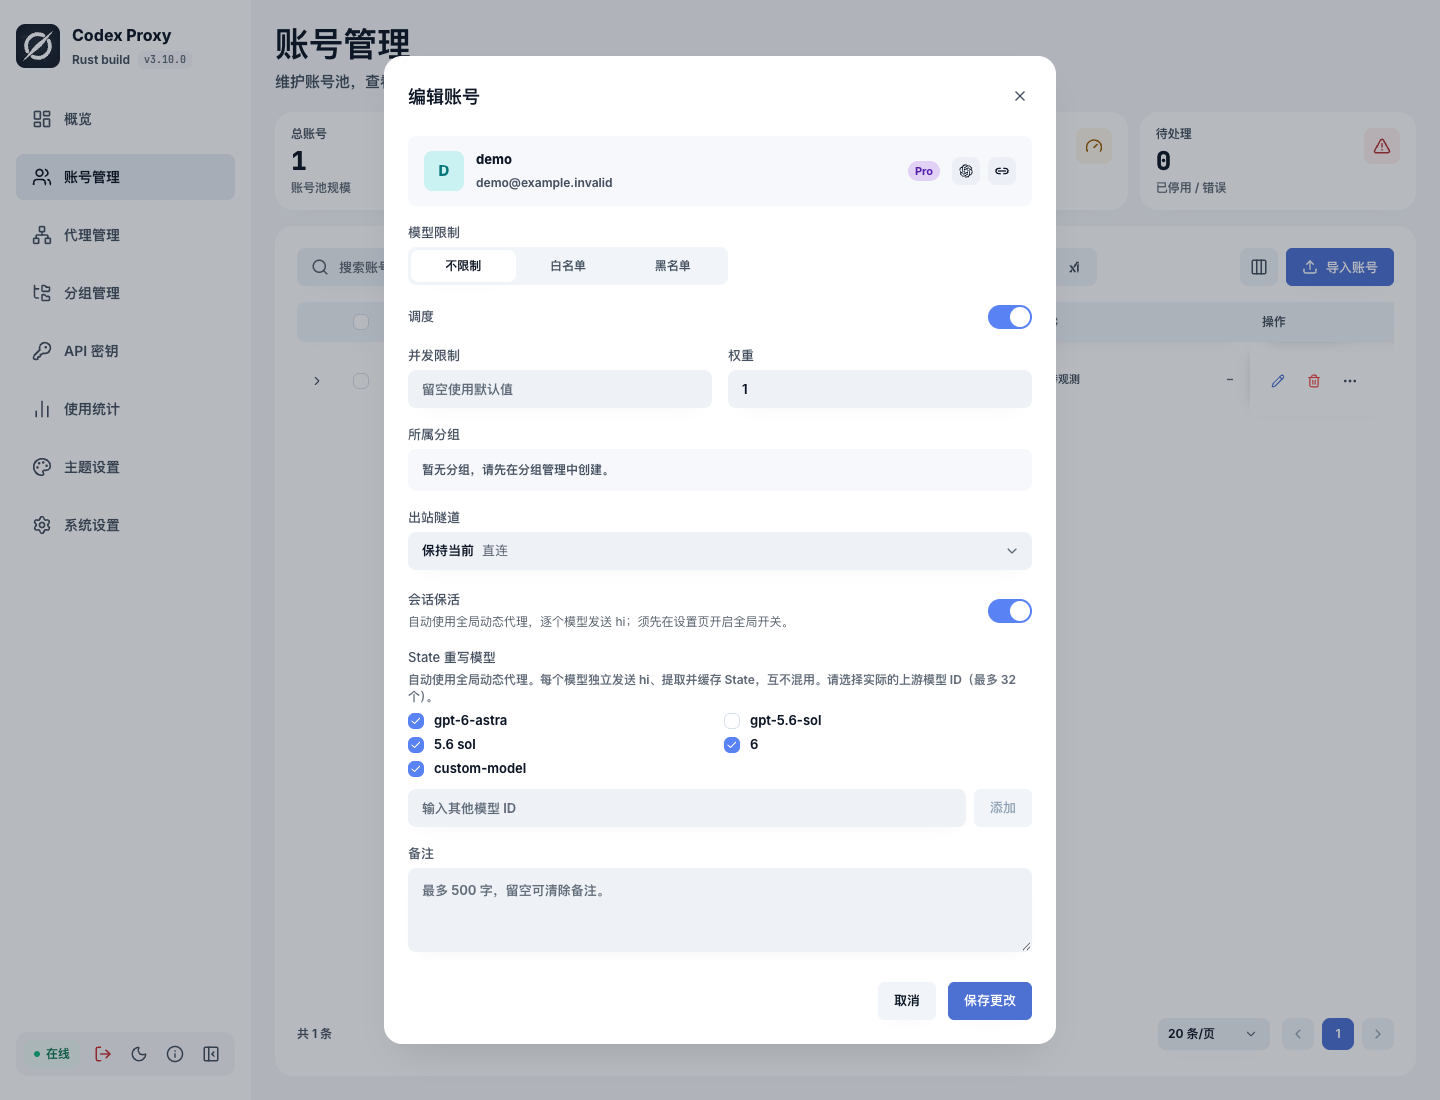
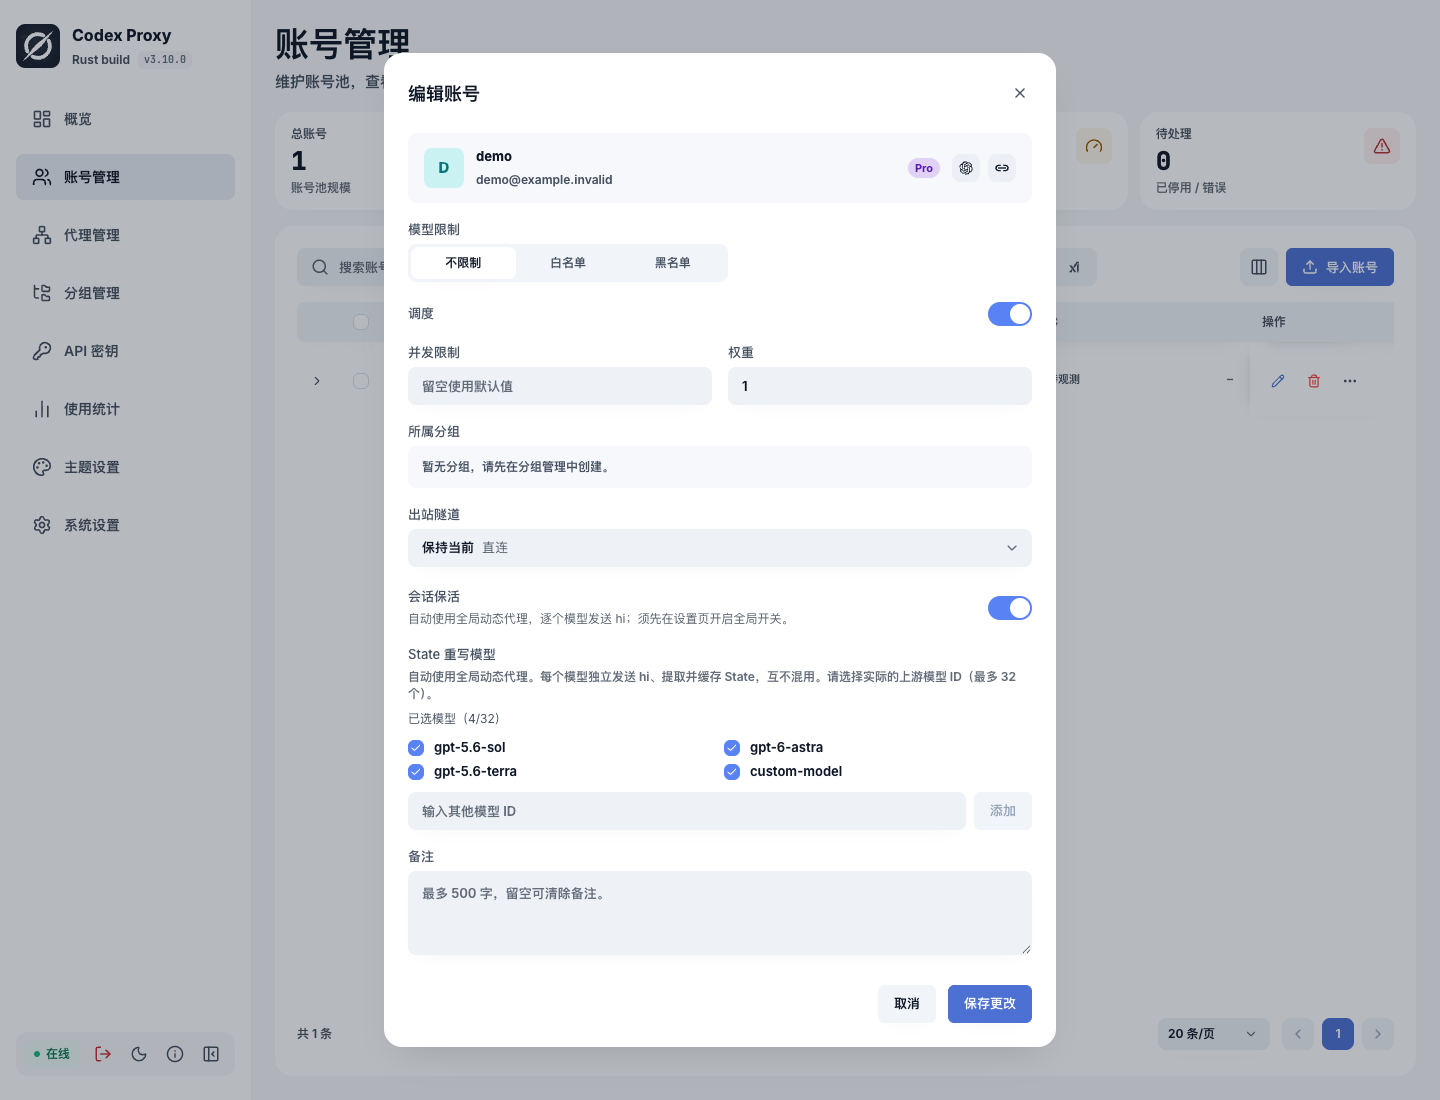
fix: correct state rewrite model IDs and filter selected models

diff --git a/frontend/src/views/accounts/components/AccountSessionModelsField.vue b/frontend/src/views/accounts/components/AccountSessionModelsField.vue
@@ -15,11 +15,11 @@ const catalog = ref<string[]>([])
 const manual = ref('')
 const inputError = ref('')
 const request = useRequestState()
-const models = computed(() => [...new Set([...catalog.value, ...selected.value])])
+const availableModels = computed(() => [...new Set(catalog.value)].filter(model => !selected.value.includes(model)))
 function select(id: string, checked: boolean) {
   if (props.disabled)
     return
-  if (checked && selected.value.length >= 32) {
+  if (checked && !selected.value.includes(id) && selected.value.length >= 32) {
     inputError.value = '最多选择 32 个重写模型'
     return
   }
@@ -60,8 +60,19 @@ watch(() => props.accountId, () => {
   <BaseFormItem label="State 重写模型" description="自动使用全局动态代理。每个模型独立发送 hi、提取并缓存 State，互不混用。请选择实际的上游模型 ID（最多 32 个）。">
     <div class="grid gap-3">
       <BaseScrollbar max-height="12rem">
-        <div class="grid grid-cols-2 gap-2" role="group" aria-label="选择重写模型">
-          <BaseCheckbox v-for="model in models" :key="model" :label="model" :title="model" show-label :model-value="selected.includes(model)" :disabled="disabled" @update:model-value="select(model, $event)" />
+        <div class="grid gap-3">
+          <p class="m-0 text-cp-sm text-cp-text-secondary">
+            已选模型（{{ selected.length }}/32）
+          </p>
+          <div class="grid grid-cols-2 gap-2" role="group" aria-label="已选重写模型">
+            <BaseCheckbox v-for="model in selected" :key="model" :label="model" :title="model" show-label :model-value="true" :disabled="disabled" @update:model-value="select(model, $event)" />
+          </div>
+          <p v-if="availableModels.length" class="m-0 text-cp-sm text-cp-text-secondary">
+            可添加模型
+          </p>
+          <div v-if="availableModels.length" class="grid grid-cols-2 gap-2" role="group" aria-label="可添加重写模型">
+            <BaseCheckbox v-for="model in availableModels" :key="model" :label="model" :title="model" show-label :model-value="false" :disabled="disabled" @update:model-value="select(model, $event)" />
+          </div>
         </div>
       </BaseScrollbar>
       <div class="flex gap-2">

diff --git a/frontend/src/views/accounts/composables/useAccountEditor.ts b/frontend/src/views/accounts/composables/useAccountEditor.ts
@@ -72,7 +72,7 @@ export function useAccountEditor(options: {
     proxyId.value = ''
     schedulingEnabled.value = account.enabled
     enableSessionKeepalive.value = account.enableSessionKeepalive
-    sessionKeepaliveModels.value = [...(account.sessionKeepaliveModels ?? ['5.6 sol', '6'])]
+    sessionKeepaliveModels.value = [...(account.sessionKeepaliveModels ?? ['gpt-5.6-sol', 'gpt-6-astra'])]
     concurrencyLimit.value = concurrencyLimitInput(account.concurrencyLimit)
     weight.value = String(account.weight)
     modelAccess.value = { ...account.modelAccess, models: [...account.modelAccess.models] }

diff --git a/backend/crates/providers/openai/tests/session_manager/manager.rs b/backend/crates/providers/openai/tests/session_manager/manager.rs
@@ -54,7 +54,7 @@ async fn disabled_accounts_other_models_and_missing_proxy_never_refresh_or_overr
         manager.refresh(&id).await.unwrap_err().kind(),
         ProviderAdminErrorKind::Invalid
     );
-    let mut req = request("6");
+    let mut req = request("gpt-6-astra");
     manager
         .rewrite(&store.account("acct_a").unwrap(), &mut req)
         .await;
@@ -66,7 +66,7 @@ async fn disabled_accounts_other_models_and_missing_proxy_never_refresh_or_overr
             .await
             .is_err()
     );
-    for model in ["gpt-6-astra", "6 ", "5.6 Sol"] {
+    for model in ["5.6 sol", "6", "gpt-6", "gpt-6-astra ", "GPT-5.6-sol"] {
         let mut req = request(model);
         manager
             .rewrite(&store.account("acct_b").unwrap(), &mut req)
@@ -86,19 +86,19 @@ async fn partial_failure_keeps_previous_state_without_extending_its_expiry() {
     let id = ProviderAccountId::new("acct_a").unwrap();
     manager.refresh(&id).await.unwrap();
     proxy.reset().await;
-    mock_model(&proxy, "acct_a", "5.6 sol", ResponseTemplate::new(500)).await;
-    mock_model(&proxy, "acct_a", "6", success("new-state")).await;
+    mock_model(&proxy, "acct_a", "gpt-5.6-sol", ResponseTemplate::new(500)).await;
+    mock_model(&proxy, "acct_a", "gpt-6-astra", success("new-state")).await;
     let result = manager.refresh(&id).await.unwrap();
     assert!(result.models[0].error.is_some());
     assert!(result.models[1].error.is_none());
-    let mut sol = request("5.6 sol");
+    let mut sol = request("gpt-5.6-sol");
     manager
         .rewrite(&store.account("acct_a").unwrap(), &mut sol)
         .await;
     assert_eq!(sol.turn_state.as_deref(), Some("old-state"));
     tokio::time::pause();
     tokio::time::advance(Duration::from_secs(3600)).await;
-    let mut expired = request("5.6 sol");
+    let mut expired = request("gpt-5.6-sol");
     manager
         .rewrite(&store.account("acct_a").unwrap(), &mut expired)
         .await;
@@ -138,7 +138,7 @@ async fn duplicate_refresh_is_rejected_and_invalidated_inflight_results_cannot_r
     manager.invalidate(&id).await;
     let result = pending.await.unwrap().unwrap();
     assert!(result.models.iter().all(|item| item.error.is_some()));
-    let mut req = request("6");
+    let mut req = request("gpt-6-astra");
     manager
         .rewrite(&store.account("acct_a").unwrap(), &mut req)
         .await;
@@ -152,7 +152,7 @@ async fn rate_limit_honors_retry_after_and_does_not_send_the_second_model() {
     mock_model(
         &proxy,
         "acct_a",
-        "5.6 sol",
+        "gpt-5.6-sol",
         ResponseTemplate::new(429).insert_header("retry-after", "60"),
     )
     .await;
@@ -168,11 +168,11 @@ async fn rate_limit_honors_retry_after_and_does_not_send_the_second_model() {
 async fn missing_state_or_failed_sse_completion_never_creates_cache_entries() {
     let proxy = MockServer::start().await;
     let (store, _, manager) = fixture(Some(&proxy.uri())).await;
-    mock_model(&proxy, "acct_a", "5.6 sol", ResponseTemplate::new(200)).await;
+    mock_model(&proxy, "acct_a", "gpt-5.6-sol", ResponseTemplate::new(200)).await;
     mock_model(
         &proxy,
         "acct_a",
-        "6",
+        "gpt-6-astra",
         ResponseTemplate::new(200)
             .insert_header("x-codex-turn-state", "unusable")
             .set_body_raw(
@@ -186,7 +186,7 @@ async fn missing_state_or_failed_sse_completion_never_creates_cache_entries() {
         .await
         .unwrap();
     assert!(result.models.iter().all(|model| model.error.is_some()));
-    let mut req = request("6");
+    let mut req = request("gpt-6-astra");
     manager
         .rewrite(&store.account("acct_a").unwrap(), &mut req)
         .await;
@@ -237,7 +237,7 @@ async fn rewritten_business_http_uses_original_proxy_and_never_oam_pool() {
     )
     .for_account(&account)
     .unwrap();
-    let mut req = request("6");
+    let mut req = request("gpt-6-astra");
     req.force_http_sse = true;
     manager.rewrite(&account, &mut req).await;
     let context = CodexRequestContext {
@@ -292,7 +292,7 @@ async fn credential_revision_change_prevents_reusing_previous_state() {
         current.access_token_expires_at(),
     )
     .with_session_keepalive(true)
-    .with_session_keepalive_models(vec!["5.6 sol".to_owned(), "6".to_owned()])
+    .with_session_keepalive_models(vec!["gpt-5.6-sol".to_owned(), "gpt-6-astra".to_owned()])
     .with_account_facts(
         true,
         current.credential_state(),
@@ -300,10 +300,10 @@ async fn credential_revision_change_prevents_reusing_previous_state() {
         None,
         None,
     );
-    let mut req = request("6");
+    let mut req = request("gpt-6-astra");
     manager.rewrite(&current, &mut req).await;
     assert_eq!(req.turn_state.as_deref(), Some("old-credential-state"));
-    let mut req = request("6");
+    let mut req = request("gpt-6-astra");
     manager.rewrite(&rotated, &mut req).await;
     assert_eq!(req.turn_state.as_deref(), Some("client-state"));
 }
@@ -367,7 +367,7 @@ async fn selected_models_are_exact_and_support_more_than_two() {
 async fn temporary_failure_retries_the_same_model_and_caches_only_success() {
     let proxy = MockServer::start().await;
     let (store, _, manager) = fixture(Some(&proxy.uri())).await;
-    store.set_session_models("acct_a", vec!["6".to_owned()]);
+    store.set_session_models("acct_a", vec!["gpt-6-astra".to_owned()]);
     let attempts = Arc::new(AtomicUsize::new(0));
     let count = attempts.clone();
     Mock::given(method("POST"))
@@ -386,13 +386,13 @@ async fn temporary_failure_retries_the_same_model_and_caches_only_success() {
         .unwrap();
     assert!(result.models[0].error.is_none());
     assert_eq!(attempts.load(Ordering::SeqCst), 3);
-    let mut req = request("6");
+    let mut req = request("gpt-6-astra");
     manager
         .rewrite(&store.account("acct_a").unwrap(), &mut req)
         .await;
     assert_eq!(req.turn_state.as_deref(), Some("retried-state"));
     proxy.reset().await;
-    mock_model(&proxy, "acct_a", "6", ResponseTemplate::new(500)).await;
+    mock_model(&proxy, "acct_a", "gpt-6-astra", ResponseTemplate::new(500)).await;
     let result = manager
         .refresh(&ProviderAccountId::new("acct_a").unwrap())
         .await
@@ -405,7 +405,7 @@ async fn temporary_failure_retries_the_same_model_and_caches_only_success() {
             .contains("已尝试 3 次")
     );
     assert_eq!(proxy.received_requests().await.unwrap().len(), 3);
-    let mut req = request("6");
+    let mut req = request("gpt-6-astra");
     manager
         .rewrite(&store.account("acct_a").unwrap(), &mut req)
         .await;
@@ -416,7 +416,7 @@ async fn temporary_failure_retries_the_same_model_and_caches_only_success() {
 async fn short_retry_after_is_honored_before_retrying() {
     let proxy = MockServer::start().await;
     let (store, _, manager) = fixture(Some(&proxy.uri())).await;
-    store.set_session_models("acct_a", vec!["6".to_owned()]);
+    store.set_session_models("acct_a", vec!["gpt-6-astra".to_owned()]);
     let times = Arc::new(Mutex::new(Vec::new()));
     let captured = times.clone();
     Mock::given(method("POST"))

diff --git a/backend/crates/gateway-store/tests/postgres/provider_accounts/mod.rs b/backend/crates/gateway-store/tests/postgres/provider_accounts/mod.rs
@@ -3517,6 +3517,15 @@ async fn session_keepalive_defaults_off_and_survives_unrelated_account_updates()
             .unwrap()
             .enable_session_keepalive()
     );
+    assert_eq!(
+        repository
+            .get_account(&id)
+            .await
+            .unwrap()
+            .unwrap()
+            .session_keepalive_models(),
+        ["gpt-5.6-sol", "gpt-6-astra"]
+    );
     let store = admin_account_store(&database.pool);
     let context = MutationContext {
         actor: MutationActor::System,
@@ -3565,6 +3574,57 @@ async fn session_keepalive_defaults_off_and_survives_unrelated_account_updates()
             summary[0].session_keepalive_models,
             vec!["model-a", "model-b", "model-c"]
         );
+    }
+    database.close().await;
+}
+
+#[tokio::test]
+async fn session_model_migration_corrects_legacy_ids_without_losing_custom_models() {
+    let Some(database) = TestDatabase::create("session_model_ids").await else {
+        return;
+    };
+    let repository = PgProviderAccountRepository::new(database.pool.clone());
+    repository
+        .insert_provider_account(account("acct_legacy_models", "legacy models"))
+        .await
+        .unwrap();
+    repository
+        .insert_provider_account(account("acct_custom_models", "custom models"))
+        .await
+        .unwrap();
+    for (id, models) in [
+        (
+            "acct_legacy_models",
+            vec!["5.6 sol", "custom-model", "6", "gpt-6", "gpt-5.6-sol"],
+        ),
+        ("acct_custom_models", vec!["my-model", "another-model"]),
+    ] {
+        sqlx::query("update provider_accounts set session_keepalive_models = $2 where id = $1")
+            .bind(id)
+            .bind(models)
+            .execute(&database.pool)
+            .await
+            .unwrap();
+    }
+    sqlx::raw_sql(include_str!(
+        "../../../../../migrations/0018_session_rewrite_model_ids.sql"
+    ))
+    .execute(&database.pool)
+    .await
+    .unwrap();
+    for (id, expected) in [
+        (
+            "acct_legacy_models",
+            vec!["gpt-5.6-sol", "custom-model", "gpt-6-astra"],
+        ),
+        ("acct_custom_models", vec!["my-model", "another-model"]),
+    ] {
+        let account = repository
+            .get_account(&ProviderAccountId::new(id).unwrap())
+            .await
+            .unwrap()
+            .unwrap();
+        assert_eq!(account.session_keepalive_models(), expected);
     }
     database.close().await;
 }

diff --git a/backend/crates/providers/openai/tests/support.rs b/backend/crates/providers/openai/tests/support.rs
@@ -113,7 +113,10 @@ impl MemoryAccountStore {
             .account
             .clone()
             .with_session_keepalive(enabled)
-            .with_session_keepalive_models(vec!["5.6 sol".to_owned(), "6".to_owned()]);
+            .with_session_keepalive_models(vec![
+                "gpt-5.6-sol".to_owned(),
+                "gpt-6-astra".to_owned(),
+            ]);
     }
 
     pub(crate) fn set_session_models(&self, id: &str, models: Vec<String>) {

diff --git a/backend/crates/providers/openai/src/session_manager/manager.rs b/backend/crates/providers/openai/src/session_manager/manager.rs
@@ -34,7 +34,7 @@ use crate::{
     },
 };
 
-pub const SESSION_KEEPALIVE_MODELS: [&str; 2] = ["5.6 sol", "6"];
+pub const SESSION_KEEPALIVE_MODELS: [&str; 2] = ["gpt-5.6-sol", "gpt-6-astra"];
 const TTL_SECONDS: i64 = 3600;
 const MAX_PROBE_ATTEMPTS: u32 = 3;
 const MAX_RETRY_WAIT: Duration = Duration::from_secs(30);

diff --git a/docs/session-keepalive-handoff.md b/docs/session-keepalive-handoff.md
@@ -12,7 +12,7 @@
 | 重写诊断与脱敏 | `backend/crates/providers/openai/src/session_manager/diagnostics.rs` |
 | 共用测试请求构造 | `backend/crates/providers/openai/src/transport/request.rs` |
 | 动态代理隔离与测试准入 | Store 的 `postgres/proxies.rs`、`runtime_settings.rs` |
-| 持久化 | `backend/migrations/0017_session_keepalive_controls.sql` |
+| 持久化 | `backend/migrations/0017_session_keepalive_controls.sql`、`0018_session_rewrite_model_ids.sql` |
 | 设置页风险确认 | `frontend/src/views/settings/components/SessionKeepaliveCard.vue` |
 | 动态代理页面 | `frontend/src/views/proxies/` |
 | 账户模型选择与刷新 | `frontend/src/views/accounts/components/AccountSessionModelsField.vue`、`AccountSessionStateModal.vue` |
@@ -49,14 +49,17 @@ Cargo 使用 `RUST_MIN_STACK=16777216 CARGO_INCREMENTAL=0 CARGO_PROFILE_DEV_DEBU
 
 15 项 Session Manager 测试覆盖账户与模型隔离、三个自定义模型、真实本地 HTTP 双出口、TTL、在途失效、重复刷新、429 冷却、有限重试及 Retry-After、完整结构化诊断字段与嵌套认证脱敏。Store 测试覆盖单个动态代理限制、ID/URL/导入绑定拒绝、地址变化清除测试结果、全局默认关闭、测试准入、模型持久化与快照投影。Admin/API 测试覆盖风险确认、请求合同和错误边界。
 
+模型 ID 与选择器修正后的增量验证：`cargo test -p provider-openai session_manager --locked` 15 项通过，`cargo test -p gateway-store session_ --locked` 13 项通过（含账号默认值/存量迁移 2 项）；相关 crate 严格 Clippy 与 Rustfmt 通过，前端 ESLint、类型检查与构建通过，18 个迁移冻结校验通过。存量迁移覆盖旧名称转换、转换后去重及自定义模型保留。首次扩大 Store 过滤范围时因测试 Redis 未启动、随后认证配置不匹配导致 10 项失败；修正专用测试实例配置后同一命令 13 项全过。上述全量结果属于此前功能验证，本次未重跑全量。
+
 ## 浏览器证据
 
-使用 Vite、实际 Vue 页面与本机 Chrome 无头浏览器，API 以合成数据拦截。验证动态代理保存后测试失败及再次测试成功、全局默认关闭、风险弹窗取消与确认、账户选择四个模型（目录勾选＋手动添加）、业务代理下拉排除动态代理、手动刷新等待与部分成功、再次刷新成功、缺失代理错误。没有页面脚本异常。
+使用 Vite、实际 Vue 页面与本机 Chrome 无头浏览器，API 以合成数据拦截。验证动态代理保存后测试失败及再次测试成功、全局默认关闭、风险弹窗取消与确认、账户选择四个模型（目录勾选＋手动添加）、业务代理下拉排除动态代理、手动刷新等待与部分成功、再次刷新成功、缺失代理错误。另验证默认模型完整 ID、目录重复项去重、已选模型不出现在可添加列表、取消后重新添加，以及手动输入已有模型不重复。没有页面脚本异常。
 
 四个模型仅为验收样例；产品支持每账号 1～32 个。检查桌面 1440×1100 浅色及 390×844 深色，窄屏无横向溢出。截图均为合成账号和无效示例地址：
 
 - [动态代理表单](verification/session-keepalive/dynamic-proxy-form.png)、[测试失败](verification/session-keepalive/dynamic-proxy-failed.png)、[代理列表](verification/session-keepalive/dynamic-proxy-list.png)
 - [风险确认](verification/session-keepalive/risk-confirmation.png)、[设置页](verification/session-keepalive/settings.png)
+- [可添加模型](verification/session-keepalive/account-available-models.png)、[窄屏模型选择](verification/session-keepalive/account-models-mobile-dark.png)
 - [账户模型](verification/session-keepalive/account-models.png)、[桌面刷新结果](verification/session-keepalive/partial-desktop.png)、[窄屏深色](verification/session-keepalive/partial-mobile-dark.png)
 
 这些结果不替代浏览器到真实后端、代理、上游的完整验收。

diff --git a/docs/session-keepalive-design.md b/docs/session-keepalive-design.md
@@ -8,7 +8,7 @@
 
 已核验官方 Codex 源码提交 [`3d3ae4965ab370217e871b3a7f0d15589557ee4b`](https://github.com/openai/codex/blob/3d3ae4965ab370217e871b3a7f0d15589557ee4b/codex-rs/core/src/client.rs#L269-L296)：`ModelClientSession` 每轮独立创建，State 在同一轮次内保持不变，并明确要求 “must not send it between different turns”。本功能按用户指定的账号＋模型粒度覆盖，与该版本官方合同存在已知偏离；管理员通过账号开关选择使用。真实业务中的兼容性留待部署验证，不以该源码版本代表用户实际上游。
 
-每个账号可选择 1～32 个模型，默认 `5.6 sol` 和 `6`，可从现有账户模型目录勾选，也可手动添加其他上游模型 ID。模型名区分大小写、不自动映射，必须精确匹配业务请求最终使用的上游模型。默认名称仅是初始值，应按实际模型目录调整。
+每个账号可选择 1～32 个模型，默认 `gpt-5.6-sol` 和 `gpt-6-astra`，可从现有账户模型目录勾选，也可手动添加其他上游模型 ID。已选模型从可添加目录中排除，取消选择后可重新添加；目录与手动输入均按完整 ID 去重。模型名区分大小写、不自动映射，必须精确匹配业务请求最终使用的上游模型。默认名称仅是初始值，应按实际模型目录调整。
 
 60 分钟是本地缓存 TTL，不是上游承诺的有效期。重写属于真实模型调用，可能占用同一账号额度并产生费用。
 
@@ -46,6 +46,8 @@ flowchart LR
 | `session_keepalive_models: Vec<String>` | 账号；API `sessionKeepaliveModels` | 默认两个模型；1～32 个不重复 ID，每个 1～128 字节，无首尾空白或控制字符；省略或 null 保留 |
 
 迁移 `0017_session_keepalive_controls.sql` 增加全局开关、模型选择和代理角色。迁移后全局仍关闭，需要在代理管理中重新保存并测试动态代理，再确认风险启用。旧 `oamProxy` 原值保留供回退和兼容读取，但不再生效；非空写入返回错误。代理必须经过统一 URL 规范化，避免复制旧的未规范化地址而绕过业务绑定隔离。
+
+迁移 `0018_session_rewrite_model_ids.sql` 将旧名称 `5.6 sol`、`6`、`gpt-6` 修正为完整 ID，保留其他自定义模型，并合并转换后重复的选择。
 
 代理地址变化会清除测试结果。启用检查与代理变更在事务中串行化；运行时每次发送与写回均检查当前动态代理是否仍有效。普通代理测试沿用原有诊断语义，只有动态代理把测试成功作为重写准入条件。
 

diff --git a/docs/api.md b/docs/api.md
@@ -929,7 +929,7 @@ HTTP 返回 `429`，`error.code` 为 `key_daily_budget_exceeded` 或 `key_weekly
 
 ### 会话 State 刷新
 
-账号列表返回 `enableSessionKeepalive`，默认 `false`。`POST /api/admin/accounts/update` 可携带该布尔值；省略或 `null` 保留原值。有效范围为 OpenAI OAuth 账号；开启不要求先判断业务故障原因。账号列表还返回 `sessionKeepaliveModels`，默认 `["5.6 sol", "6"]`；账号更新可提交 1～32 个唯一的上游模型 ID，每个 1～128 字节且无首尾空白或控制字符，省略或 null 保留。其他必需更新字段仍按原接口提交。
+账号列表返回 `enableSessionKeepalive`，默认 `false`。`POST /api/admin/accounts/update` 可携带该布尔值；省略或 `null` 保留原值。有效范围为 OpenAI OAuth 账号；开启不要求先判断业务故障原因。账号列表还返回 `sessionKeepaliveModels`，默认 `["gpt-5.6-sol", "gpt-6-astra"]`；账号更新可提交 1～32 个唯一的上游模型 ID，每个 1～128 字节且无首尾空白或控制字符，省略或 null 保留。其他必需更新字段仍按原接口提交。
 
 `POST /api/admin/accounts/session-state/refresh` 使用管理员鉴权，JSON 请求为 `{ "accountId": "acct_..." }`，拒绝未知字段。账号必须启用、保活开启且 OAuth 凭据可用，另须开启全局 `sessionKeepaliveEnabled` 并存在测试通过的动态代理。一次刷新该账号 `sessionKeepaliveModels` 中的所有精确模型，遵守账号模型权限，不接受客户端 Token、代理或 State。
 
@@ -939,8 +939,8 @@ HTTP 返回 `429`，`error.code` 为 `key_daily_budget_exceeded` 或 `key_weekly
 {
   "accountId": "acct_example",
   "models": [
-    { "model": "5.6 sol", "refreshedAt": "2026-09-18T02:00:00Z", "expireAt": 1789700400, "error": null },
-    { "model": "6", "refreshedAt": null, "expireAt": null, "error": "上游拒绝重写请求" }
+    { "model": "gpt-5.6-sol", "refreshedAt": "2026-09-18T02:00:00Z", "expireAt": 1789700400, "error": null },
+    { "model": "gpt-6-astra", "refreshedAt": null, "expireAt": null, "error": "上游拒绝重写请求" }
   ]
 }
 ```
